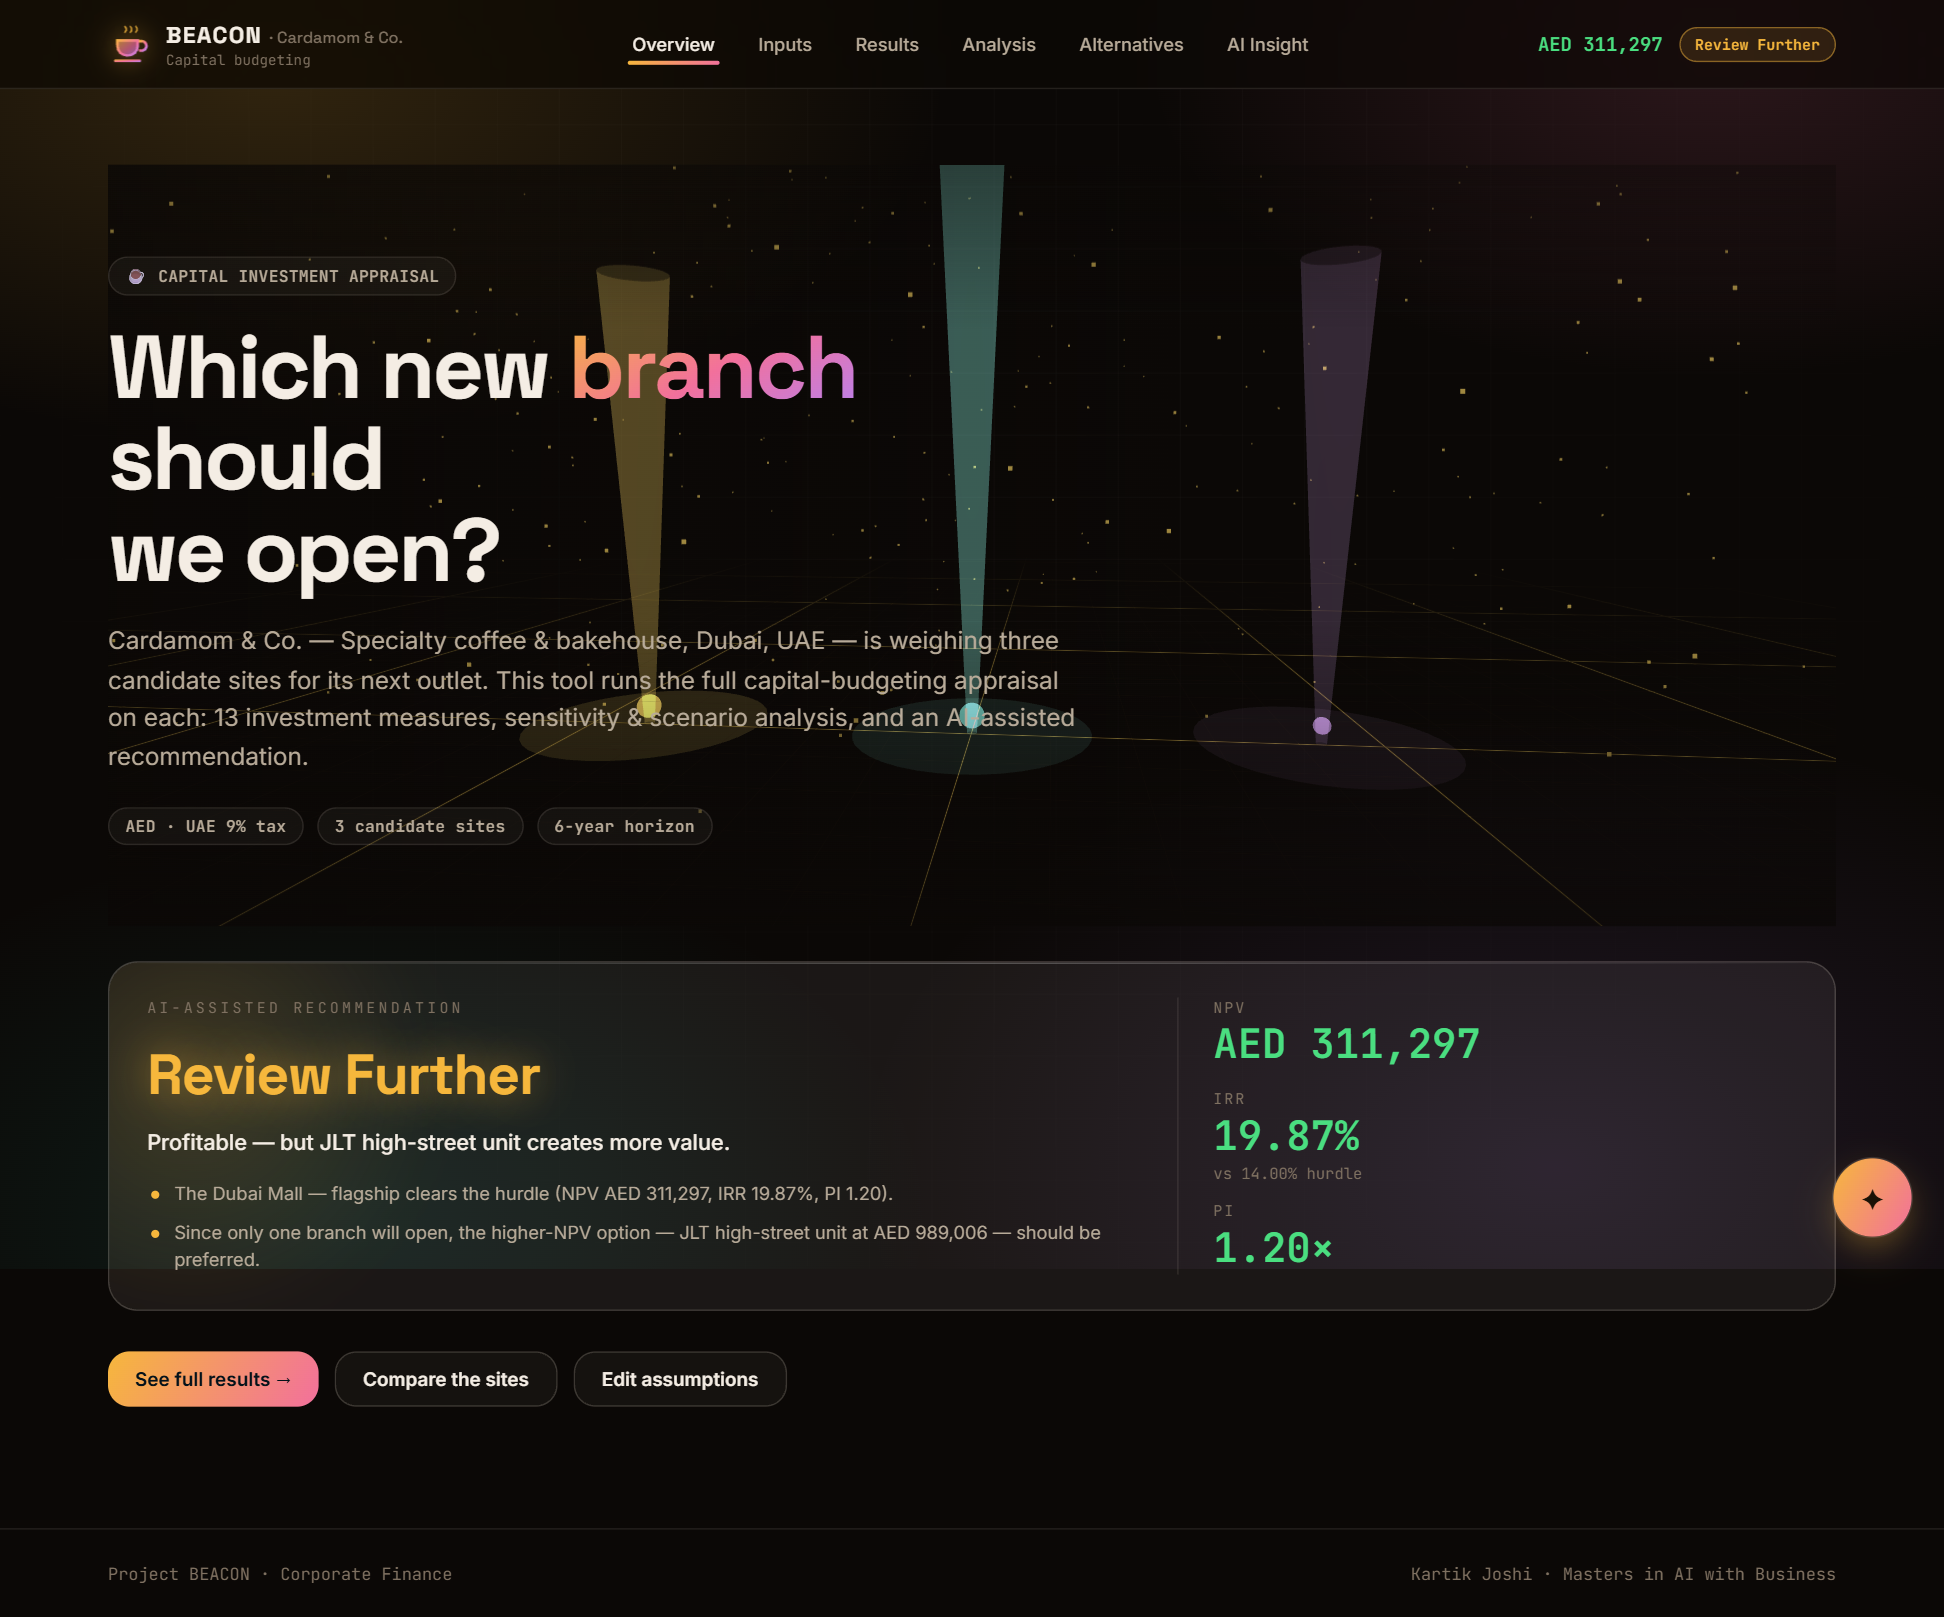
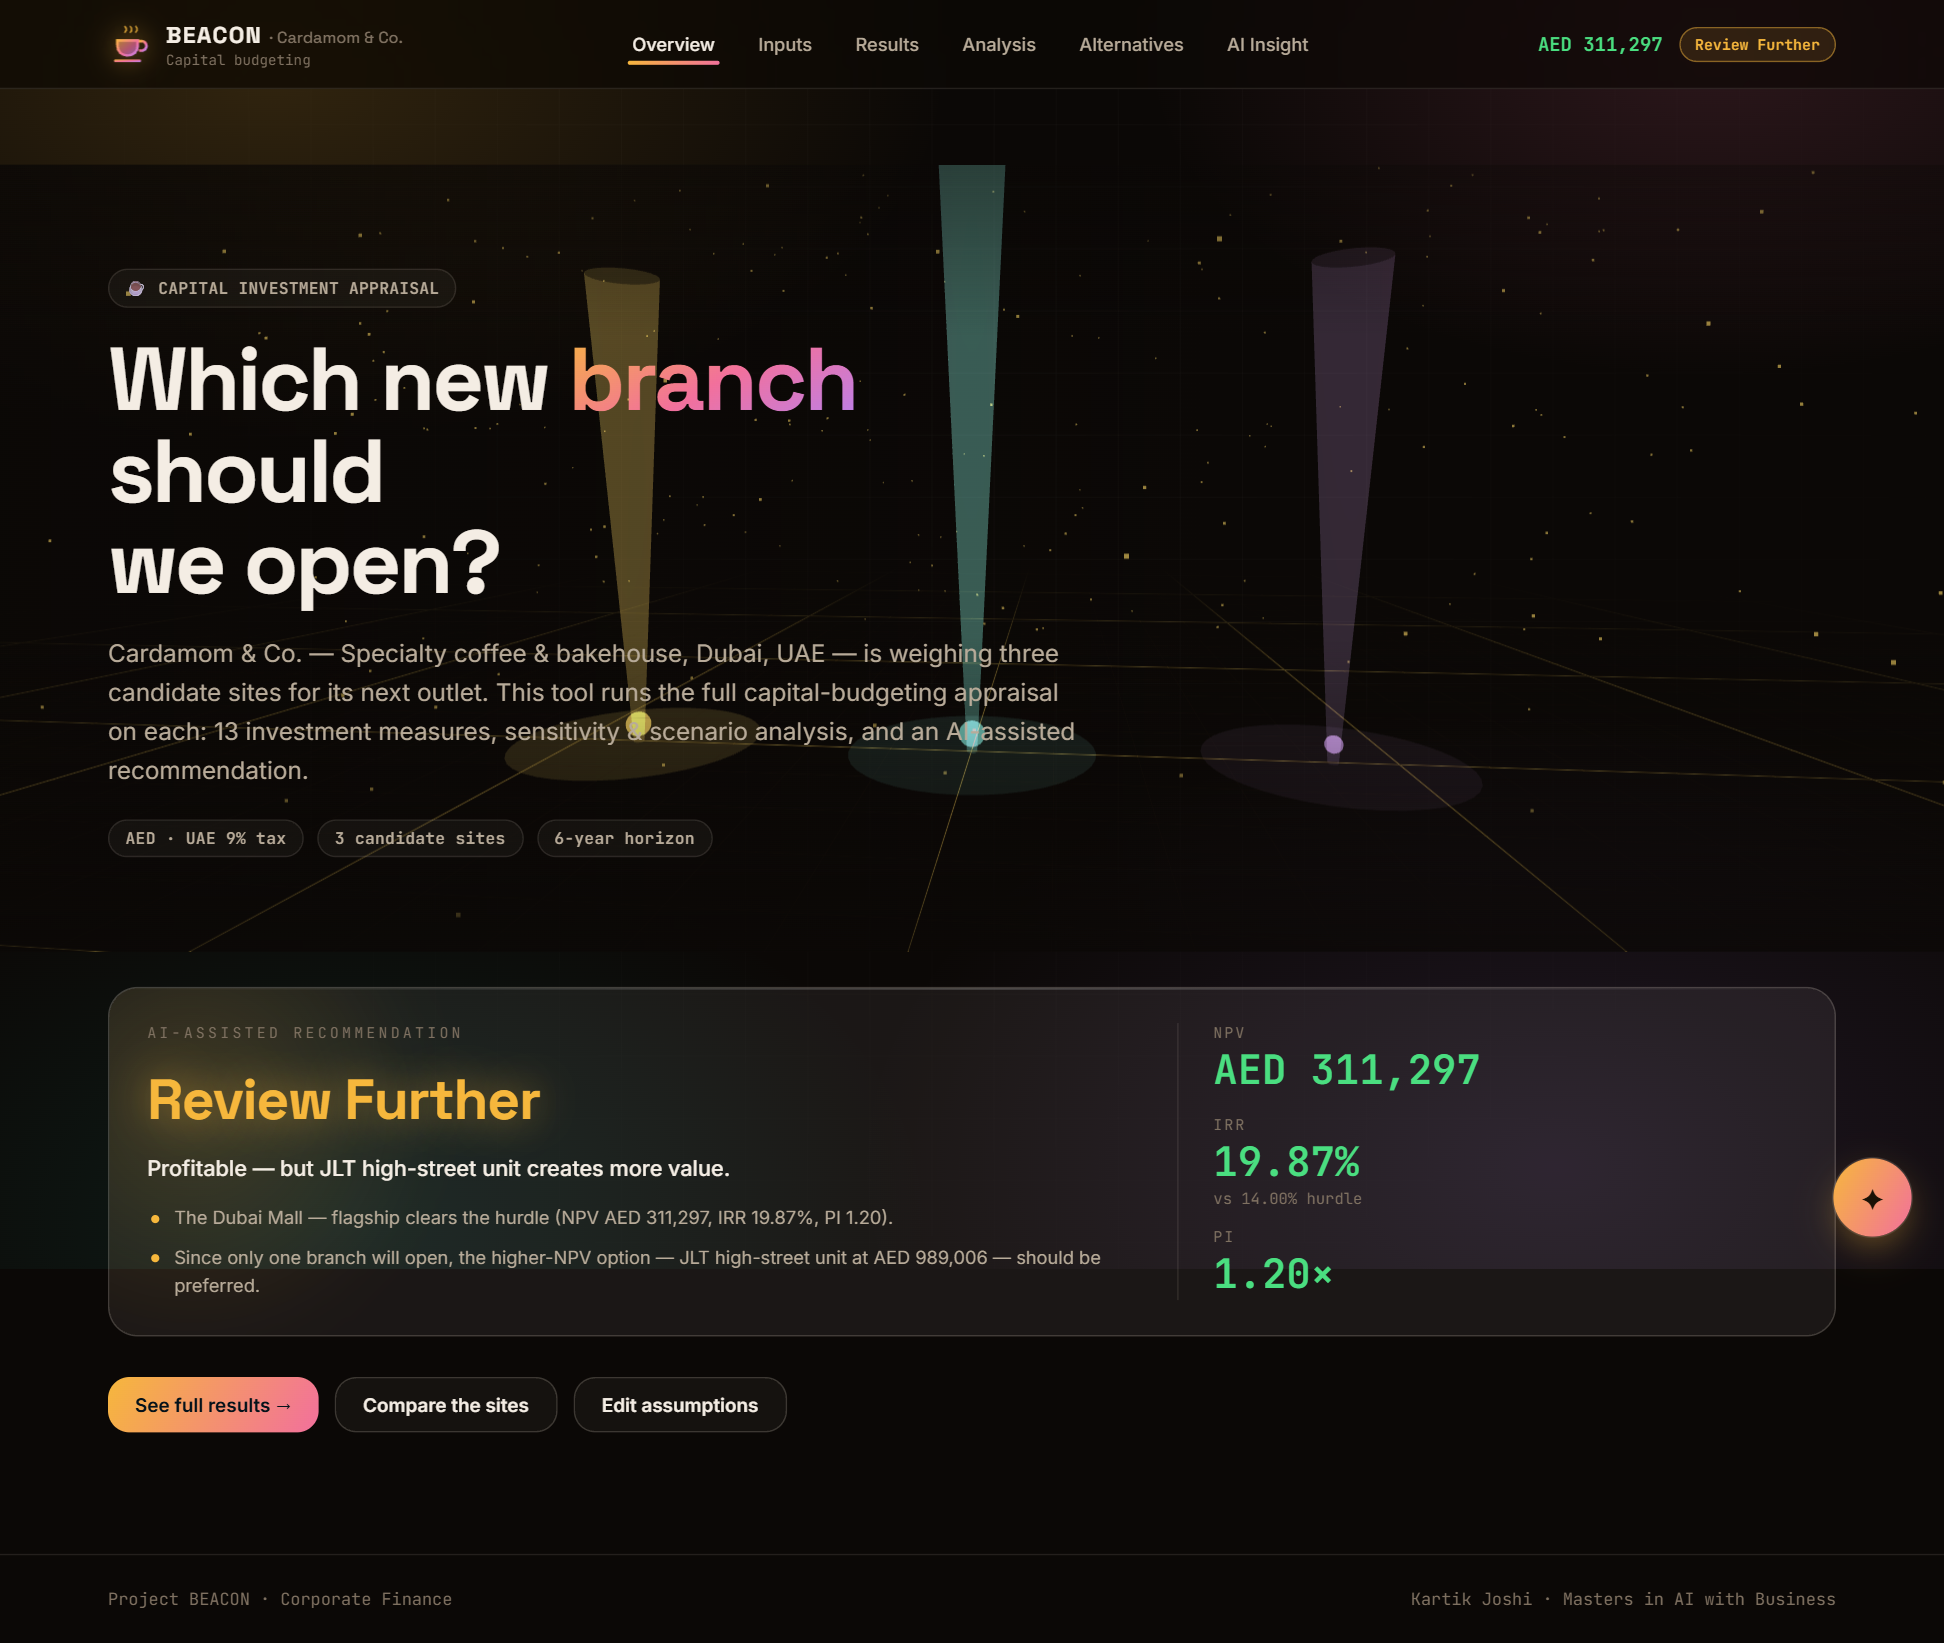
Landing hero: full-bleed the scene so it no longer reads as a boxed card
The WebGL hero was confined to the centered container width, so its lit grid/beacons formed a bounded rectangle that looked like a card around the landing content. Made .hero full-bleed (100vw) with the text re-constrained to the content width — the scene now spans the viewport as an immersive background and the hero reads as proper content, not a card. No horizontal overflow; text stays aligned with the nav. Refreshed the overview screenshot.

diff --git a/src/App.css b/src/App.css
@@ -18,7 +18,11 @@
 }
 .hero {
   position: relative;
-  min-height: 60vh;
+  /* Full-bleed: break out of the centered container so the scene spans the
+     whole viewport width and never reads as a boxed card. */
+  width: 100vw;
+  margin-left: calc(50% - 50vw);
+  min-height: 62vh;
   display: flex;
   flex-direction: column;
   justify-content: center;
@@ -66,6 +70,10 @@
 .hero__content {
   position: relative;
   z-index: 1;
+  width: 100%;
+  max-width: var(--maxw);
+  margin: 0 auto;
+  padding: 0 clamp(16px, 3vw, 40px);
 }
 .hero__chip {
   color: var(--amber);
